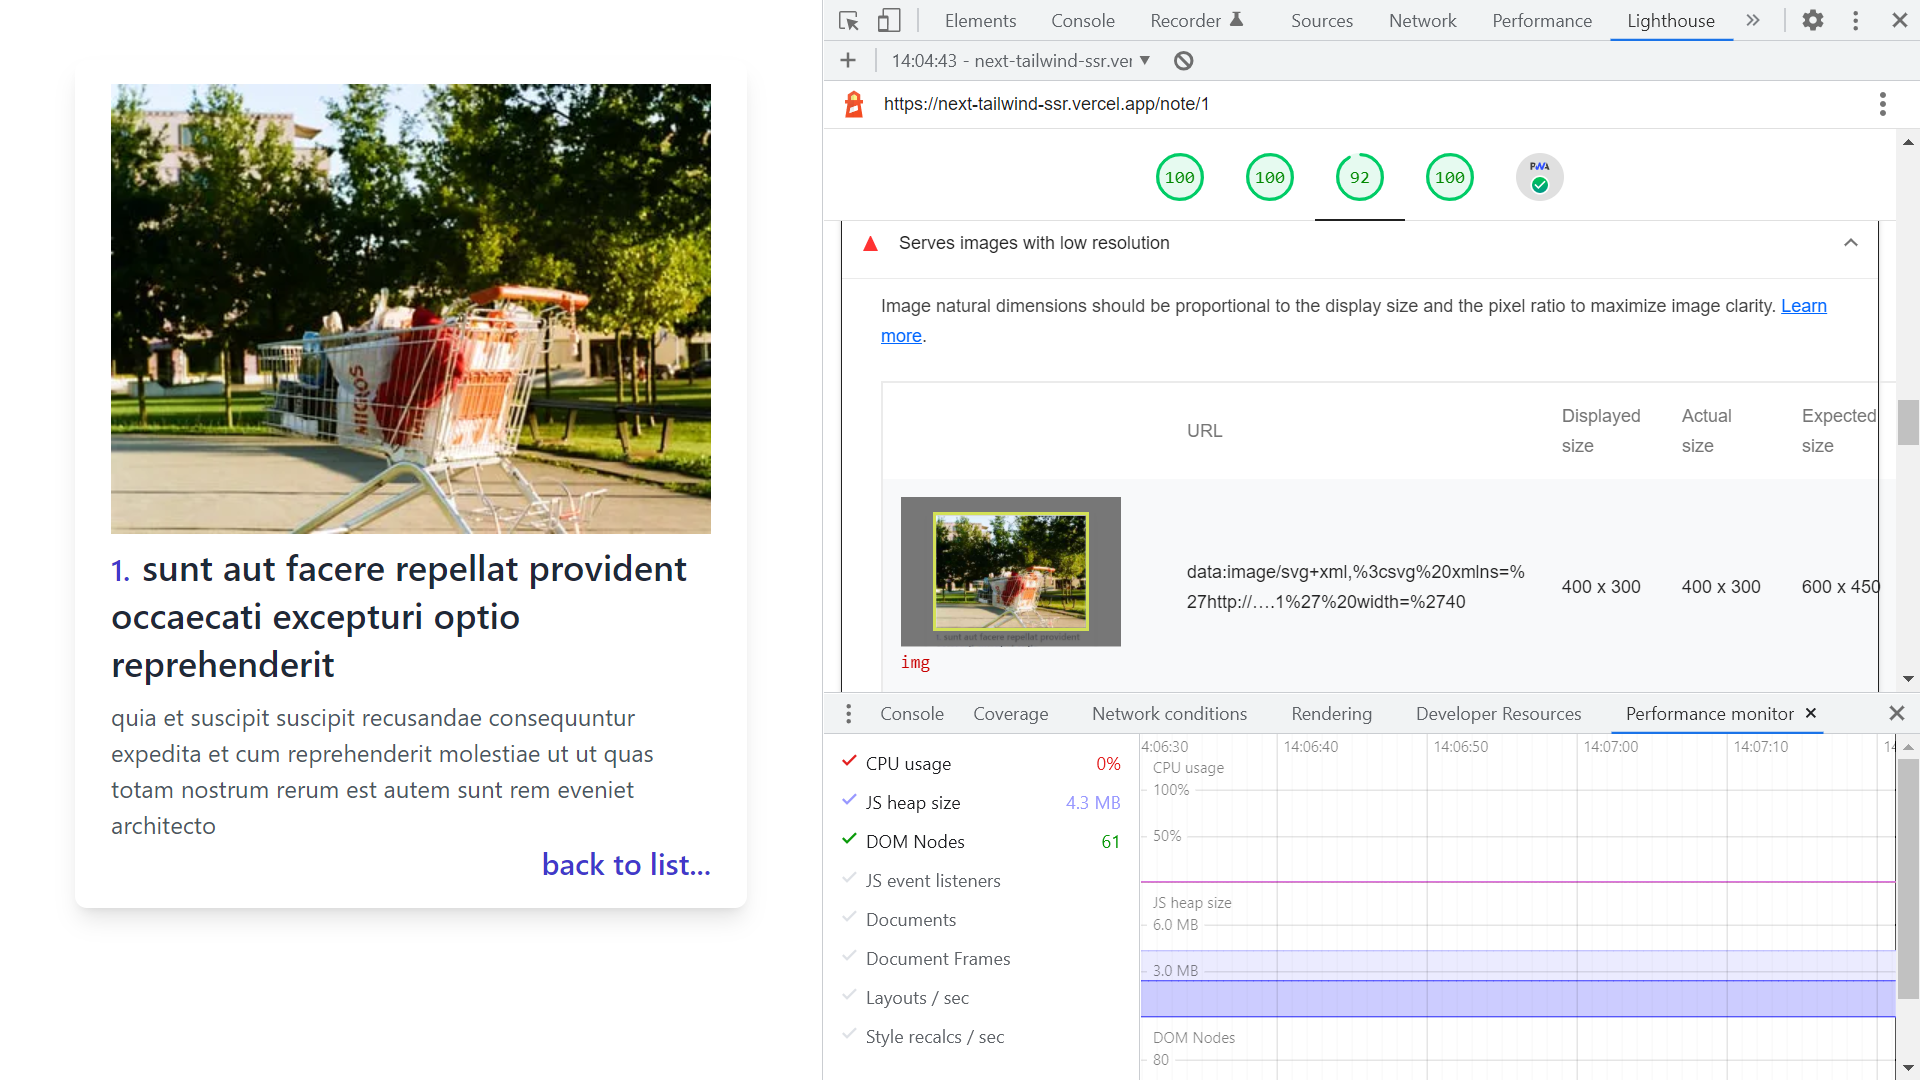
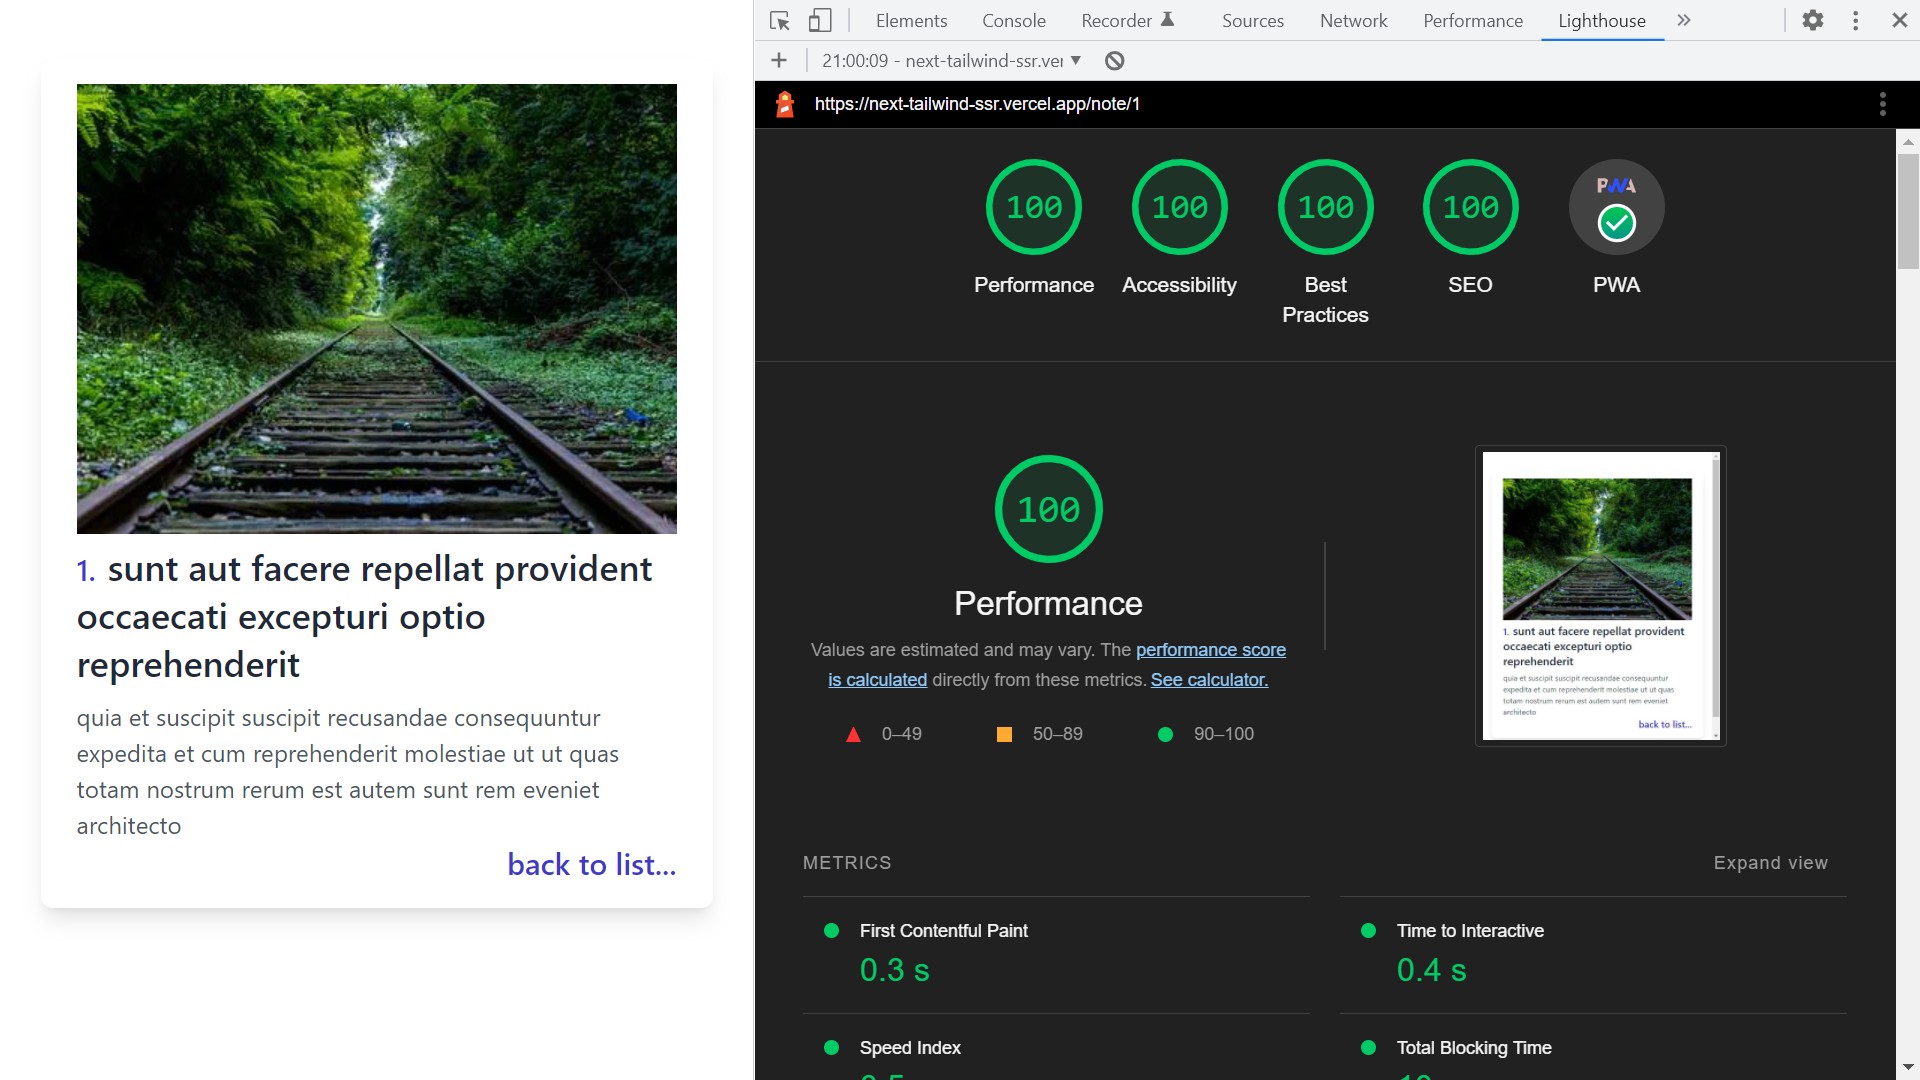
docs: user info. updated

diff --git a/README.md b/README.md
@@ -18,6 +18,7 @@
   * [:signal_strength: Technologies](#signal_strength-technologies)
   * [:floppy_disk: Setup](#floppy_disk-setup)
   * [:computer: Code Examples](#computer-code-examples)
+  * [:cool: Features](#cool-features)
   * [:clipboard: Status & To-Do List](#clipboard-status--to-do-list)
   * [:clap: Inspiration](#clap-inspiration)
   * [:file_folder: License](#file_folder-license)
@@ -76,10 +77,14 @@ export async function getStaticPaths() {
 }
 ```
 
+## :cool: Features
+
+* 100% Lighthouse score for both pages
+
 ## :clipboard: Status & To-Do List
 
 * Status: Working. Deployed to Netlify.
-* To-Do: Fix image dimensions issue to raise Lighthouse score
+* To-Do: Add content
 
 ## :clap: Inspiration
 
